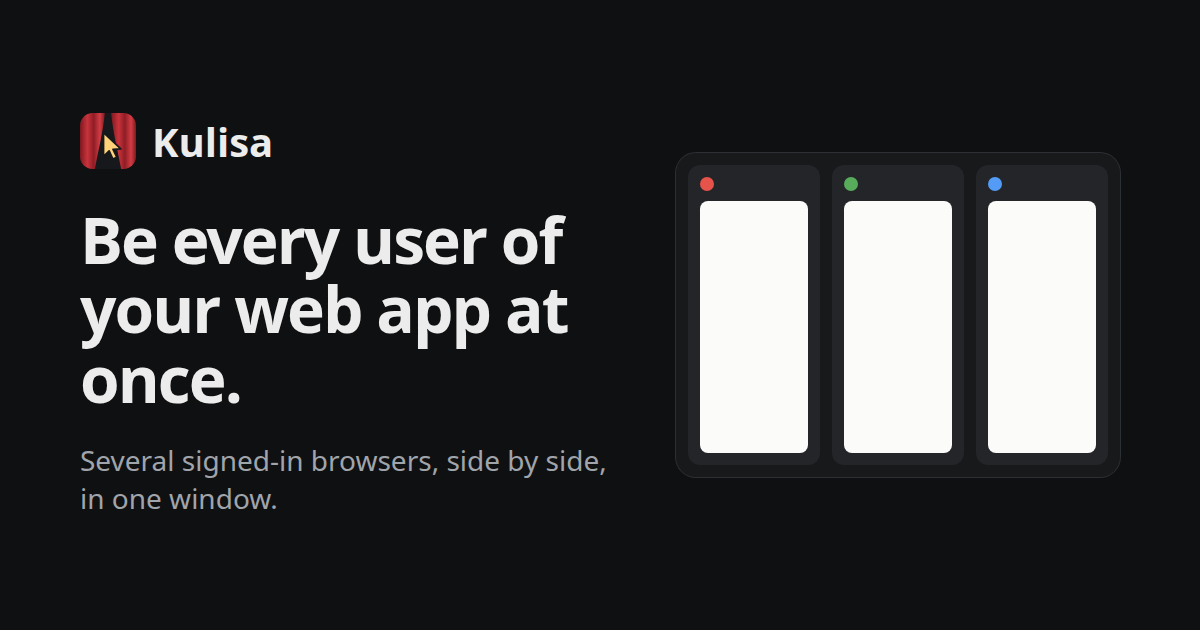
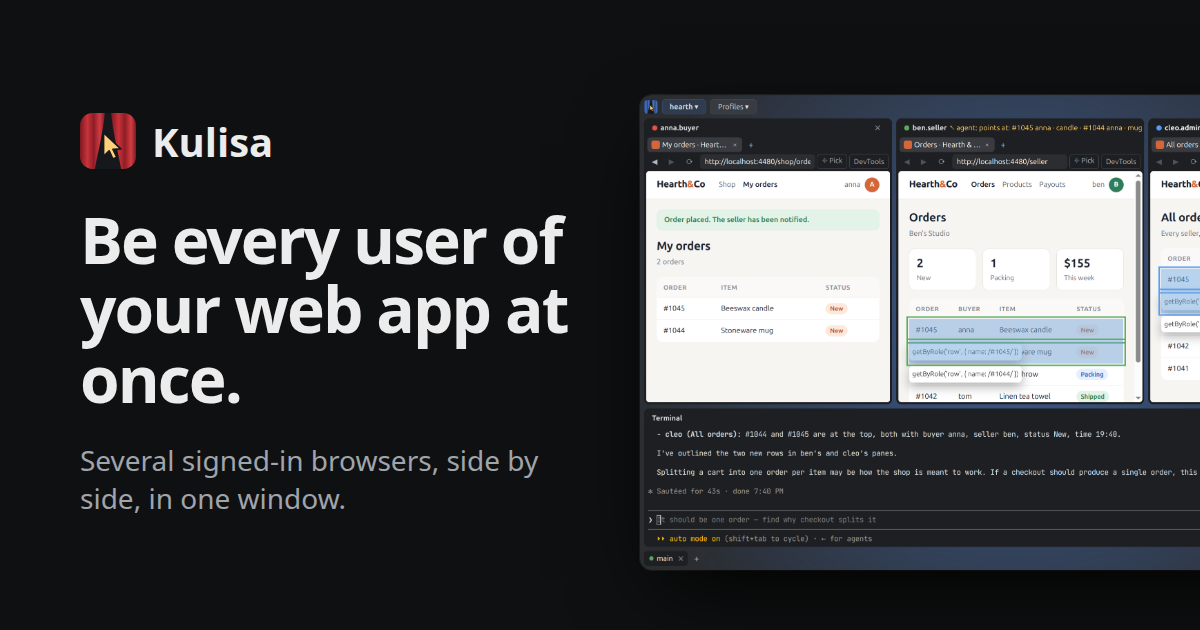
Real screenshots, workspaces and choosing the agent
The hero and every feature now show the app itself: a demo shop (Hearth & Co)
open as a buyer, a seller and an admin, in a Kulisa with its own data folder,
driven by a real Claude Code. The drawn illustration is gone; og.png shows the
window too.

Features follow what is built now: workspaces (several tasks at once) and
choosing and installing the agent are new; point and tell no longer claims a
snapshot (Kulisa sends a reference only). Whole-window screenshots get rows at
the page's full width; projects, platforms and local data are small cards.
Images keep their own proportions; the placeholder stays 16:9.

Changed region(s): [[0.4317, 0.1508, 1.0, 0.9048], [0.0617, 0.7841, 0.3083, 0.8143]]

diff --git a/src/content/site.ts b/src/content/site.ts
@@ -1,7 +1,8 @@
 // All of the page's content lives here. To add media, drop the file in place and set one field:
 // - images and video posters: src/assets/ (optimized by Astro), set e.g. `image: 'pick.png'`
 // - videos: public/media/, set e.g. `video: 'pick.mp4'` (and `poster: 'pick.jpg'` from src/assets/)
-// A slot with no media shows a calm placeholder of the same size.
+// A slot with no media shows a calm placeholder (16:9). Images keep their own proportions.
+// The screenshots are of a demo shop (Hearth & Co) in a Kulisa with its own data folder, driven by a real Claude Code.
 
 export interface Media {
   /** File in src/assets/ (png, jpg, webp, avif). */
@@ -14,7 +15,7 @@ export interface Media {
   alt?: string;
 }
 
-export type Icon = 'profiles' | 'grid' | 'watch' | 'pick' | 'highlight' | 'agent' | 'platforms' | 'timeline' | 'mail' | 'test' | 'reset';
+export type Icon = 'profiles' | 'grid' | 'watch' | 'pick' | 'highlight' | 'agent' | 'platforms' | 'workspaces' | 'projects' | 'local' | 'timeline' | 'mail' | 'test' | 'reset';
 
 export interface Feature extends Media {
   id: string;
@@ -22,6 +23,8 @@ export interface Feature extends Media {
   text: string;
   icon: Icon;
   status: 'ready' | 'coming';
+  /** Text above and the media at the full width of the page (for screenshots of the whole window). */
+  wide?: boolean;
 }
 
 export const meta = {
@@ -54,8 +57,9 @@ export const hero = {
     'Be the buyer and the seller, the sender and the receiver, the admin and the user — ' +
     'and let an AI agent work through them while you watch.',
   media: {
-    // A real window screenshot goes here, e.g. image: 'kulisa-window.png'. Until then: an illustration.
-    alt: 'The Kulisa window: three people’s browsers side by side, with the agent’s terminal below.',
+    image: 'hero-window.png',
+    alt: 'The Kulisa window: a shop open as a buyer, a seller and an admin side by side. The agent placed an order as the buyer, ' +
+      'outlined the new orders in the seller’s and the admin’s pages, and reports below in its terminal.',
   } as Media,
 };
 
@@ -85,7 +89,7 @@ export const steps = [
   {
     label: 'The wings',
     title: 'An agent you can watch',
-    text: 'An AI agent runs in a terminal inside the window and can click and type in any profile. You see every step, and you can point at anything on a page to tell it what’s wrong.',
+    text: 'An AI agent of your choice runs in a terminal inside the window and can click and type in any profile. You see every step, and you can point at anything on a page to tell it what’s wrong.',
   },
 ];
 
@@ -95,14 +99,9 @@ export const features: Feature[] = [
     icon: 'profiles',
     status: 'ready',
     title: 'Profiles that stay signed in',
-    text: 'Each profile is its own person, with its own sign-ins, cookies and tabs. Close Kulisa, open it tomorrow: everyone is still signed in, with the same tabs open.',
-  },
-  {
-    id: 'grid',
-    icon: 'grid',
-    status: 'ready',
-    title: 'A grid you arrange',
-    text: 'Drag panes side by side, stack them as tabs, resize them. Pick a ready-made layout — profiles in columns, two by two, or one at a time — and Kulisa remembers yours.',
+    text: 'Each profile is its own person, with its own sign-ins, cookies and tabs. Close one to free its memory and open it again later, or close Kulisa and come back tomorrow: everyone is still signed in, with the same tabs open.',
+    image: 'profiles.png',
+    alt: 'The Profiles menu listing anna.buyer, ben.seller and cleo.admin, next to the buyer’s and the seller’s pages.',
   },
   {
     id: 'watch',
@@ -110,13 +109,17 @@ export const features: Feature[] = [
     status: 'ready',
     title: 'See what the agent does',
     text: 'Every click and keystroke the agent makes is marked on the page, and a caption on the pane says what it is doing right now. Nothing happens off stage.',
+    image: 'watch.png',
+    alt: 'The agent clicks “Add to cart” in the buyer’s page: the button is outlined, the click is marked, and the pane says “agent: click”.',
   },
   {
     id: 'pick',
     icon: 'pick',
     status: 'ready',
     title: 'Point and tell',
-    text: 'Click Pick, then click the thing on the page. The agent gets an exact reference to it, with a snapshot of that moment; you add what’s wrong. Pick in several panes for one message: “sent here, didn’t arrive there”.',
+    text: 'Click Pick, then click the thing on the page. An exact reference to it lands in the agent’s prompt, and you write the rest: what’s wrong, what you expected. Pick in several panes for one message: “sent here, didn’t arrive there”.',
+    image: 'pick.png',
+    alt: 'Picking a row in the seller’s page: the cell is outlined, and a reference to the item picked in the buyer’s page is already in the agent’s prompt.',
   },
   {
     id: 'highlight',
@@ -124,13 +127,48 @@ export const features: Feature[] = [
     status: 'ready',
     title: 'The agent points back',
     text: 'When the agent wants to show you something, it outlines it right on the page, with a label on the pane, until you click or type there.',
+    image: 'highlight.png',
+    alt: 'The new orders outlined by the agent in the seller’s and the admin’s pages, with “agent: points at” captions on both panes.',
+  },
+  {
+    id: 'workspaces',
+    icon: 'workspaces',
+    status: 'ready',
+    wide: true,
+    title: 'Several tasks at once',
+    text: 'Start a workspace for each task: its own copy of the project on a branch of its own, its own agent, and copies of everyone’s profiles, still signed in. One agent fixes checkout while another works on something else; switch between them with a click.',
+    image: 'workspaces.png',
+    alt: 'A workspace named one-order next to main: its agent fixed checkout, placed an order as the buyer and outlined the single new order for the seller and the admin.',
   },
   {
     id: 'agent',
     icon: 'agent',
     status: 'ready',
-    title: 'Works with the agent you already use',
-    text: 'Claude Code is set up out of the box. Other agents that run in a terminal, such as Codex, can connect too. Kulisa doesn’t replace your agent; it gives it a stage.',
+    title: 'The agent you choose',
+    text: 'Claude Code, Codex, or just a terminal, chosen per workspace. If the agent isn’t on your computer yet, Kulisa installs it for you with its maker’s own installer: no commands to type. Kulisa doesn’t replace your agent; it gives it a stage.',
+    image: 'agents.png',
+    alt: 'The “Choose the agent” dialog: Claude Code by Anthropic, Codex by OpenAI, or the terminal only.',
+  },
+  {
+    id: 'grid',
+    icon: 'grid',
+    status: 'ready',
+    wide: true,
+    title: 'A grid you arrange',
+    text: 'Drag panes side by side, stack them as tabs, resize them. Pick a ready-made layout — profiles in columns, two by two, or one at a time — and Kulisa remembers yours.',
+    image: 'grid.png',
+    alt: 'Two profiles stacked on the left, the seller in the middle and the agent’s terminal on the right.',
+  },
+];
+
+// Smaller things, shown as cards without media.
+export const more: Feature[] = [
+  {
+    id: 'projects',
+    icon: 'projects',
+    status: 'ready',
+    title: 'A stage per project',
+    text: 'Each project keeps its own profiles, layout and agent conversation. Switch to another and back: you continue where you left off.',
   },
   {
     id: 'platforms',
@@ -138,6 +176,13 @@ export const features: Feature[] = [
     status: 'ready',
     title: 'macOS, Windows and Linux',
     text: 'One app, the same on all three.',
+  },
+  {
+    id: 'local',
+    icon: 'local',
+    status: 'ready',
+    title: 'Yours, on your computer',
+    text: 'No account and no cloud of Kulisa’s own. Profiles and sign-ins stay on your machine.',
   },
 ];
 
@@ -188,7 +233,7 @@ export const faq = [
   },
   {
     q: 'Which agents work?',
-    a: 'Claude Code works out of the box: Kulisa starts it with everything it needs. Other agents that run in a terminal, such as Codex, can connect too.',
+    a: 'Claude Code and Codex: pick one for each workspace, and Kulisa installs it if it’s missing. Claude Code gets the most help from Kulisa today. Other agents that run in a terminal can connect too.',
   },
   {
     q: 'Does the agent ever sign in for me?',
@@ -208,6 +253,7 @@ export const faq = [
 export const forDevelopers = [
   'Each profile is a persistent Chromium session of its own (cookies, storage, tabs), in an Electron window.',
   'The agent drives profiles through Kulisa’s MCP server: Playwright-based tools that take a profile id. <code>@playwright/mcp</code> also works through a per-profile CDP proxy, without a remote-debugging port.',
-  'Claude Code starts with a Kulisa plugin (MCP config, a skill on profiles, hooks). Other CLI agents run unchanged in a real terminal and find the server in <code>KULISA_MCP_URL</code>.',
-  'A pick sends the agent a locator it can act on and a details file: outerHTML, key styles, a cropped screenshot, recent console errors and failed requests.',
+  'Claude Code starts with a Kulisa plugin (MCP config, a skill on profiles, hooks); Codex gets the MCP server as a config override. Other CLI agents run unchanged in a real terminal, started in your shell in the project’s folder (direnv, nvm and mise apply), and find the server in <code>KULISA_MCP_URL</code>.',
+  'A pick types a reference into the agent’s prompt: the profile, the tab and a Playwright locator. The agent looks at the live page with its tools, including that tab’s console messages and network requests.',
+  'A workspace is a git worktree on its own branch next to the project (<code>myshop@task</code>), with copies of main’s profiles and its own agent session and MCP URL. Its app runs on its own ports: <code>KULISA_PORT_OFFSET</code> is in the agent’s environment.',
 ];

diff --git a/tools/og.html b/tools/og.html
@@ -2,11 +2,10 @@
 body{margin:0;width:1200px;height:630px;background:#0f1011;color:#ececec;font-family:system-ui,Ubuntu,sans-serif;display:flex;align-items:center;gap:56px;padding:0 80px;box-sizing:border-box;overflow:hidden}
 .t{flex:1}.w{display:flex;align-items:center;gap:16px;font-size:40px;font-weight:700;margin-bottom:36px}
 h1{font-size:64px;line-height:1.08;letter-spacing:-.03em;margin:0}p{color:#a0a4ab;font-size:28px;margin:28px 0 0}
-.s{display:grid;grid-template-columns:repeat(3,1fr);gap:12px;width:420px;height:300px;padding:12px;background:#18191b;border-radius:20px;box-shadow:0 0 0 1px #2c2f33}
-.p{background:#232528;border-radius:12px;padding:12px;display:flex;flex-direction:column;gap:10px}
-.d{width:14px;height:14px;border-radius:50%}.g{flex:1;background:#fbfbfa;border-radius:8px}
+.t{flex:none;width:520px;position:relative;z-index:1}
+.s{position:absolute;left:640px;top:95px;width:760px;border-radius:12px;box-shadow:0 30px 80px -20px #000,0 0 0 1px #ffffff14}
 </style></head><body>
 <div class="t"><div class="w"><img src="../public/favicon.svg" width="56" height="56" alt="">Kulisa</div>
 <h1>Be every user of your web app at once.</h1><p>Several signed-in browsers, side by side, in one window.</p></div>
-<div class="s"><div class="p"><div class="d" style="background:#e5534b"></div><div class="g"></div></div><div class="p"><div class="d" style="background:#57ab5a"></div><div class="g"></div></div><div class="p"><div class="d" style="background:#539bf5"></div><div class="g"></div></div></div>
+<img class="s" src="../src/assets/hero-window.png" alt="">
 </body></html>

diff --git a/README.md b/README.md
@@ -15,11 +15,12 @@ npm run preview   # serves dist/ to check the build
 
 All copy, links and media slots are in `src/content/site.ts`:
 
-- **Feature videos:** put `pick.mp4` in `public/media/` and a poster frame `pick.jpg` in `src/assets/`, then set
-  `video: 'pick.mp4', poster: 'pick.jpg'` on that feature. An image instead: `image: 'pick.png'` (in `src/assets/`).
-  Without media, a feature shows a placeholder of the same 16:9 size.
-- **Hero:** set `hero.media.image` (e.g. a window screenshot in `src/assets/`) or `hero.media.video`; until then
-  the page shows a drawn illustration of the window (`src/components/StageIllustration.astro`).
+- **Feature media:** put `pick.mp4` in `public/media/` and a poster frame `pick.jpg` in `src/assets/`, then set
+  `video: 'pick.mp4', poster: 'pick.jpg'` on that feature. An image instead: `image: 'pick.png'` (in `src/assets/`),
+  shown at its own proportions. Without media, a feature shows a 16:9 placeholder. Features in `more` are small cards.
+- **Hero:** `hero.media.image` (the window screenshot, `src/assets/hero-window.png`) or `hero.media.video`.
+- **Screenshots:** taken from a Kulisa with its own data folder (never the author's), on a demo shop driven by a real
+  Claude Code; full windows keep their transparent rounded corners (PNG with alpha), crops are opaque.
 - **Downloads:** fill in the `url` of each platform in `downloads`. Empty links show "Coming soon".
 - **Logo:** the app's icon (from `kulisa/assets/icon.svg`, copied to `tools/app-icon.svg`) next to a text
   wordmark: `src/components/Mark.astro`, `public/favicon.svg`. `logo.mark: false` hides the icon.
